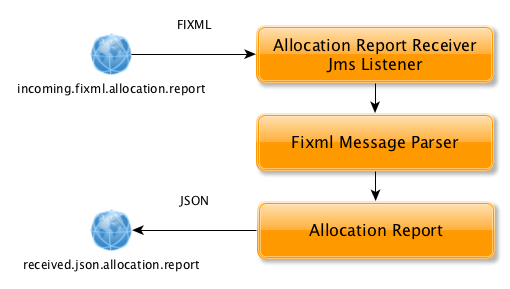
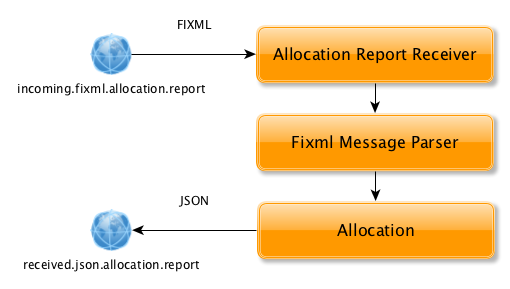
- update diagrams and readme after switching to RabbitMQ [ci skip] [skip ci]

Changed region(s): [[0.5294, 0.1246, 0.9412, 0.2491], [0.5882, 0.7785, 0.8824, 0.8408]]

diff --git a/README.md b/README.md
@@ -22,9 +22,9 @@ Trading Office is reference implementation of microservices architecture, based 
 
 ## Allocation Message Receiver
 - spring boot application
-- subscribes to jms looking for new allocation report messages (fixml)
-- after receiving message it parses it to AllocationReport POJO
-- finally, it sends the POJO as json into ActiveMQ
+- subscribes to messaging queue looking for new fixml allocation report messages
+- after receiving message it parses it to Allocation
+- finally, it sends the Allocation as json into destination message queue
 
 Heroku: http://allocation-message-receiver.herokuapp.com/swagger-ui.html
 
@@ -32,9 +32,9 @@ Heroku: http://allocation-message-receiver.herokuapp.com/swagger-ui.html
 
 ## Allocation Enricher
 - spring boot application
-- subscribes to jms looking for translated allocation report messages (json)
-- after receiving message, it enriches it with instrument data and then with counterparty data
-- finally, it sends enriched allocation as json into ActiveMQ
+- subscribes to messaging queue looking for allocation messages (json)
+- after receiving allocation, it enriches it with instrument and counterparty data
+- finally, it sends enriched allocation as json into destination message queue
 
 Heroku: http://allocation-enricher.herokuapp.com/health
 
@@ -42,9 +42,9 @@ Heroku: http://allocation-enricher.herokuapp.com/health
 
 ## Confirmation Sender
 - spring boot application
-- subscribes to jms looking for enriched allocation report messages (json)
-- after receiving message, it generates PDF confirmation using JasperReports template
-- finally, it sends the Confirmation POJO with attached PDF (as byte[]) to confirmation service (REST Service)
+- subscribes to messaging queue looking for enriched allocation messages (json)
+- after receiving message, it generates PDF confirmation using JasperReports template or SWIFT confirmation
+- finally, it sends the Confirmation with attached PDF or SWIFT (as byte[]) to confirmation service
 
 Heroku: http://confirmation-sender.herokuapp.com/health
 
@@ -64,7 +64,7 @@ Heroku: http://market-data-service.herokuapp.com/swagger-ui.html
 ## Confirmation Service
 - spring boot web application (rest service)
 - exposes REST endpoint api to store and retrieve confirmations
-- data stored as files
+- confirmations stored as files
 
 Heroku: http://confirmation-service.herokuapp.com/swagger-ui.html
 
@@ -81,14 +81,14 @@ Heroku: http://counterparty-service.herokuapp.com/swagger-ui.html
 
 ## E2E Test
 - end to end tests written in spock
-- it runs against deployed applications (Heroku, all above + OpenShift, ActiveMq)
+- it runs against deployed applications (Heroku)
 
 =========
 
 ## Infrastructure
 - Heroku (hosting microservices)
 - Heroku Add-ons (logging - papertrial, monitoring - new relic)
-- ActiveMQ (hosted on OpenShift)
+- RabbitMQ (CloudAMQP hosted on heroku)
 - SonarQube (hosted on OpenShift) - https://sonar-nprogramming.rhcloud.com
 - TravisCI - https://travis-ci.org/spolnik/trading-office
 - Coverity (Static code analysis) - https://scan.coverity.com/projects/spolnik-trading-office
@@ -102,5 +102,6 @@ Heroku: http://counterparty-service.herokuapp.com/swagger-ui.html
 ![Trade Lifecycle](https://raw.githubusercontent.com/spolnik/trading-office/master/design/trade_lifecycle.jpg)
 
 ## Notes
-- to have access to OpenShift activemq web console - run rhc port-forward activemq (only if you have admin access)
 - checking if [dependencies are up to date](https://www.versioneye.com/user/projects/56ad39427e03c7003ba41427)
+- installing RabbitMQ locally (to run end to end test locally) - [instructions](https://www.rabbitmq.com/download.html)
+- to run on Mac OS X - /usr/local/sbin/rabbitmq-server 
